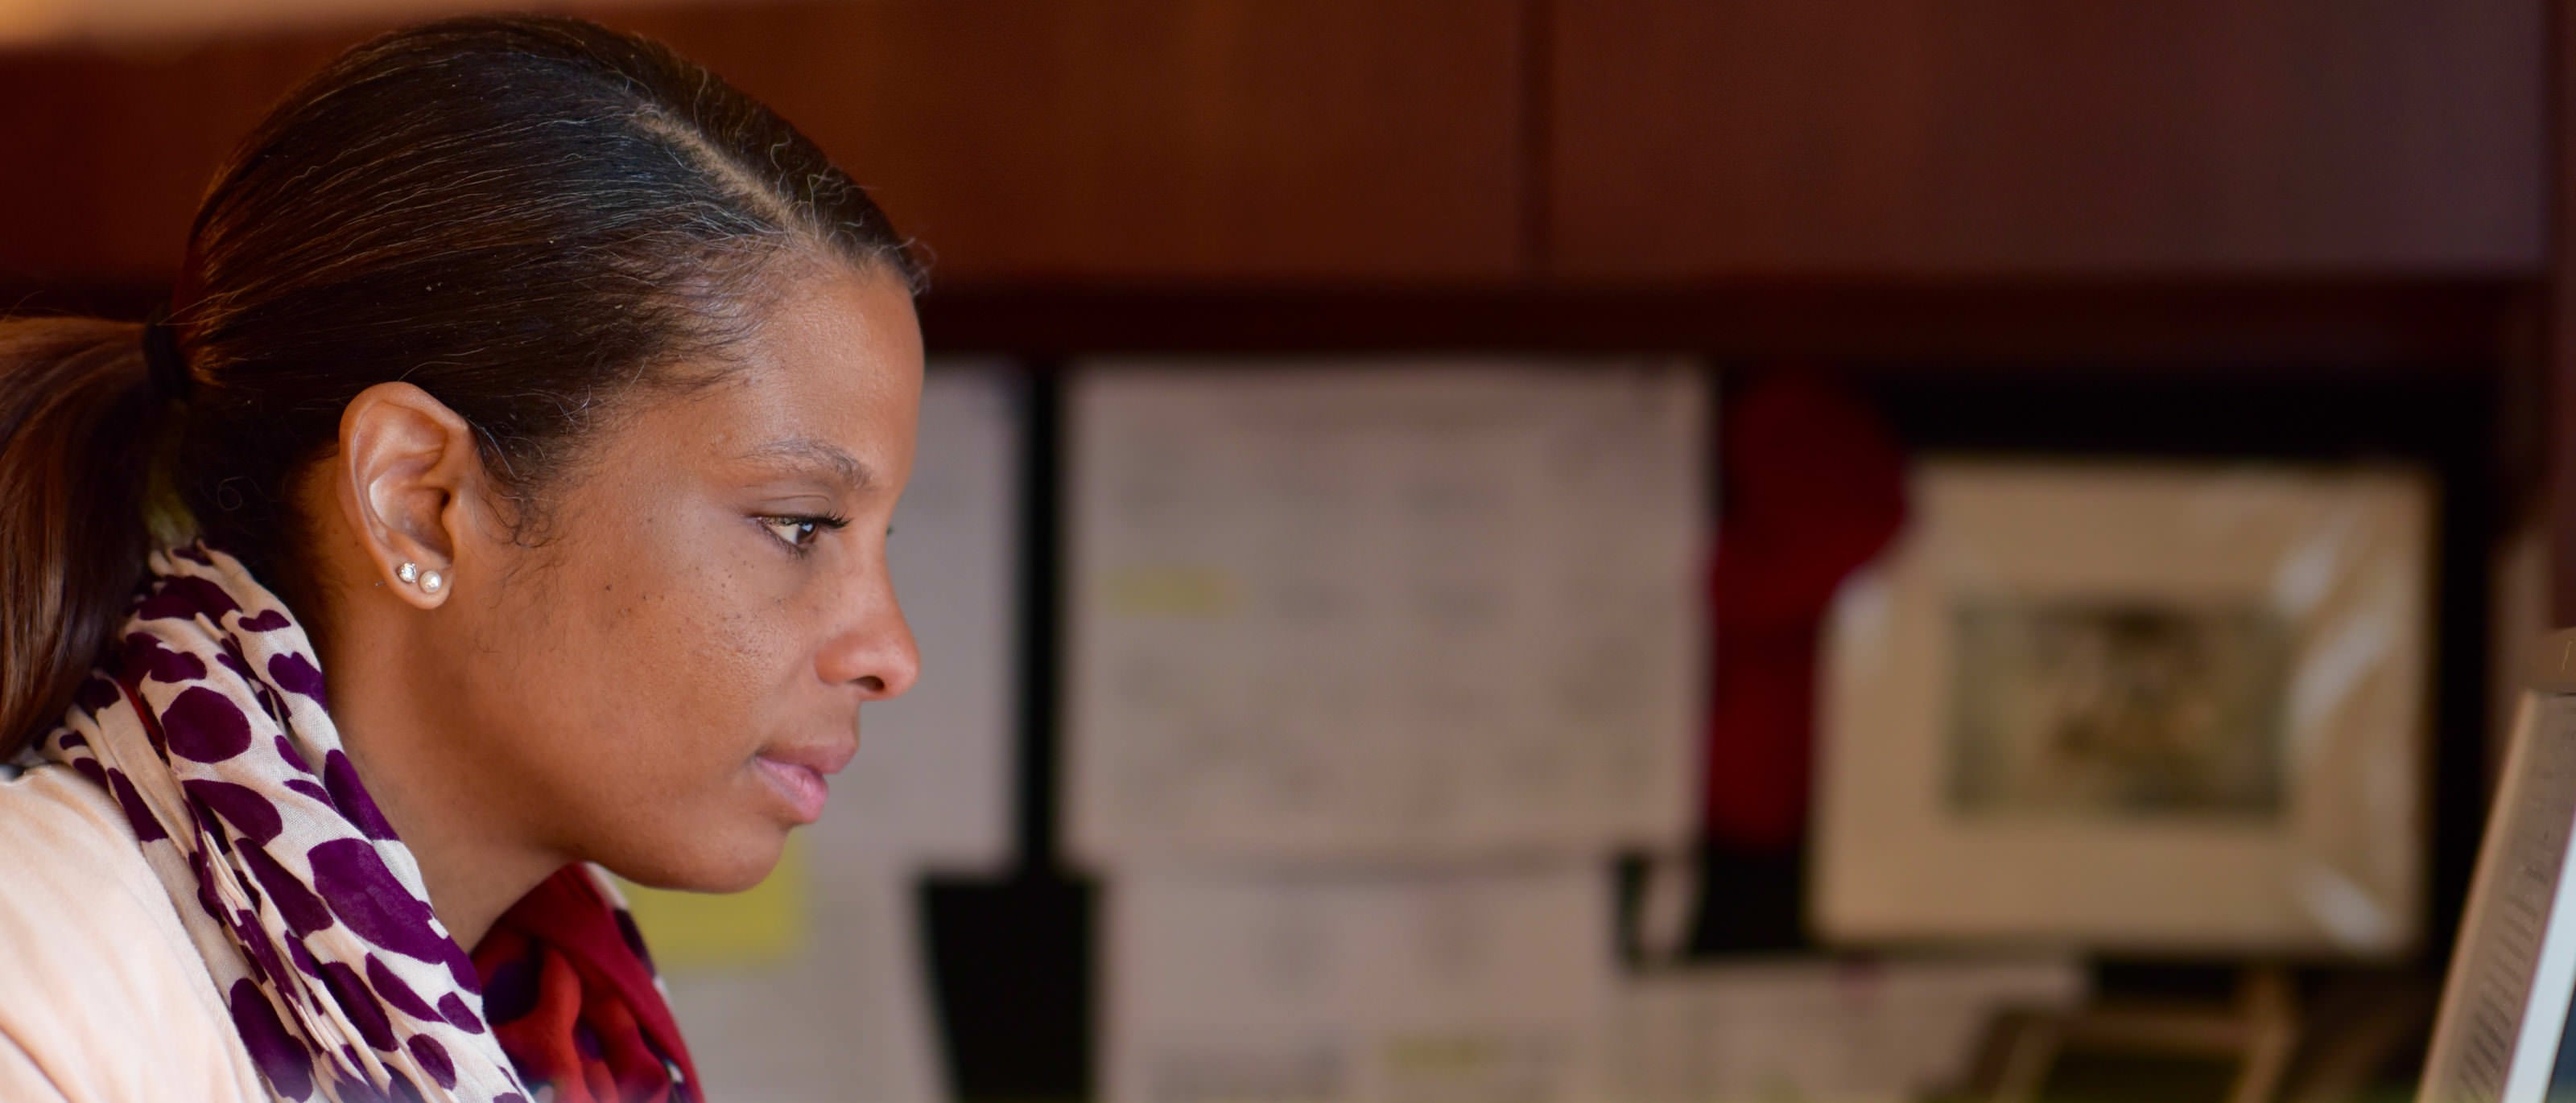
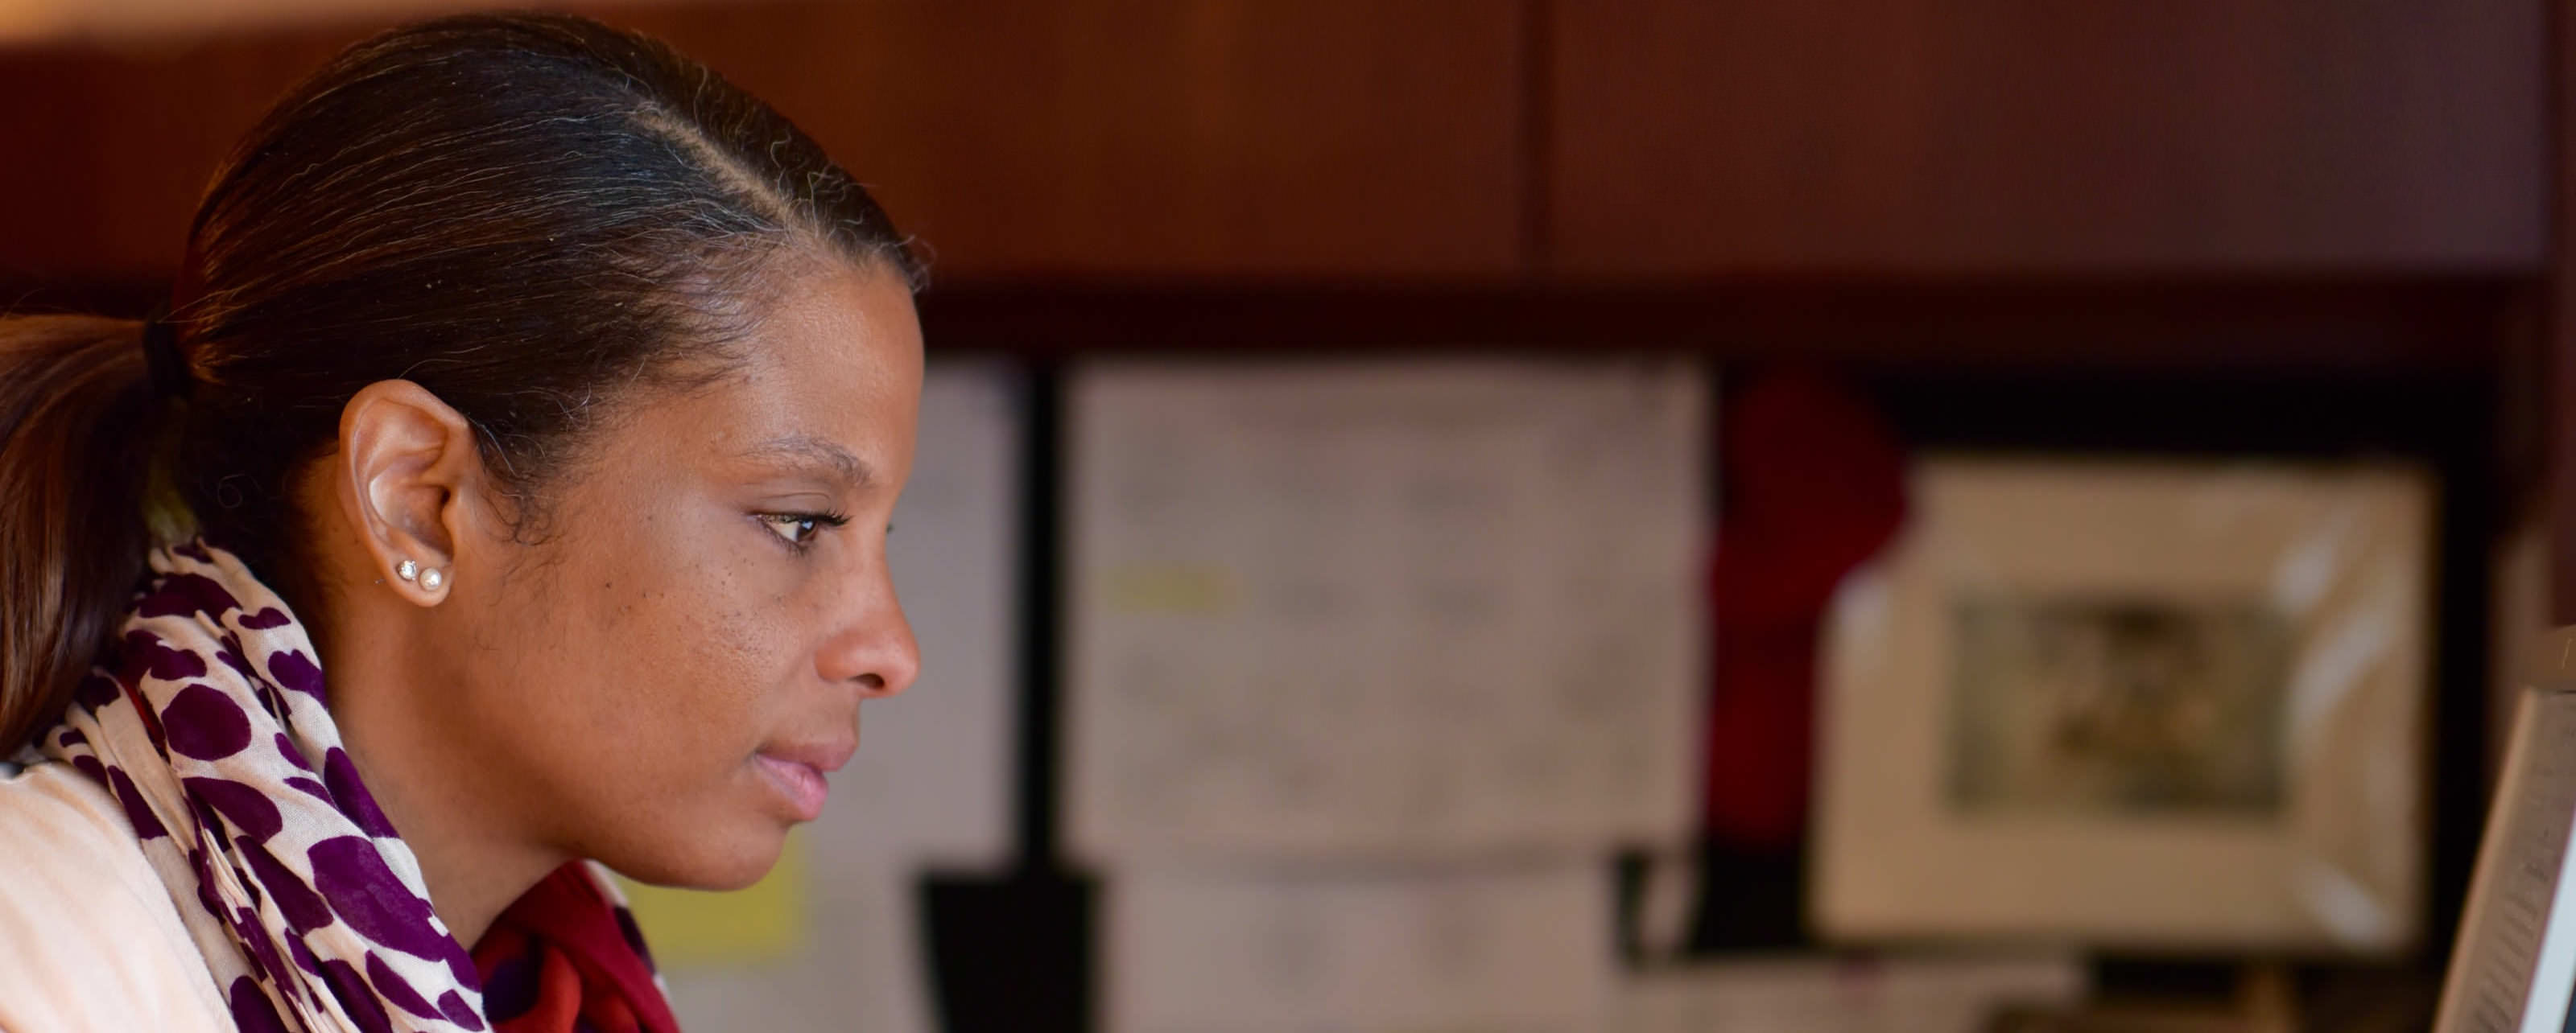
(#306) added overlays for video on touch devices, changed hero img

diff --git a/app/assets/stylesheets/pages/_leadership.scss b/app/assets/stylesheets/pages/_leadership.scss
@@ -13,8 +13,8 @@ $arrow-btn: (
     @include add-gutter(margin, bottom, 2);
 
     @include breakpoint(ipad) {
-      @include add-gutter(margin, top, 5.5);
-      @include add-gutter(margin, bottom, 3);
+      @include add-gutter(margin, top, 6);
+      @include add-gutter(margin, bottom, 3.5);
     }
   }
 
@@ -131,6 +131,14 @@ $arrow-btn: (
   }
 }
 
+.touchevents {
+  .c-ls-slides {
+    @include e(overlay) {
+      display: block;
+    }
+  }
+}
+
 .c-ls-slides {
   height: 100%;
   width: 75%;
@@ -140,12 +148,25 @@ $arrow-btn: (
   }
 
   @include e(overlay) {
+    bottom: 40px;
     display: none;
-    height: 100%;
+    height: auto;
     position: absolute;
-    top: 0;
-    width: 100%;
+    top: 50px;
+    width: 25%;
     z-index: 9999;
+
+    @include m(left) {
+      left: 0;
+    }
+
+    @include m(right) {
+      right: 0;
+    }
+
+    @include breakpoint(ipad down) {
+      display: block;
+    }
   }
 
   @include e(wrap) {

diff --git a/app/assets/javascripts/initializers/leadership.js.jsx b/app/assets/javascripts/initializers/leadership.js.jsx
@@ -16,11 +16,6 @@ $(function () {
   window.initializeLeadership = function() {
     if (!$('.c-ls-hero').length) return;
     initSwipers();
-    // $('.c-ls-slides__overlay').on('click', (e) => {
-    //   console.log('click');
-    //   $(".c-ls-slides--a__slide.swiper-slide-active iframe")[0].src += "?autoplay=1";
-    //   e.preventDefault();
-    // });
   }
 
 })
